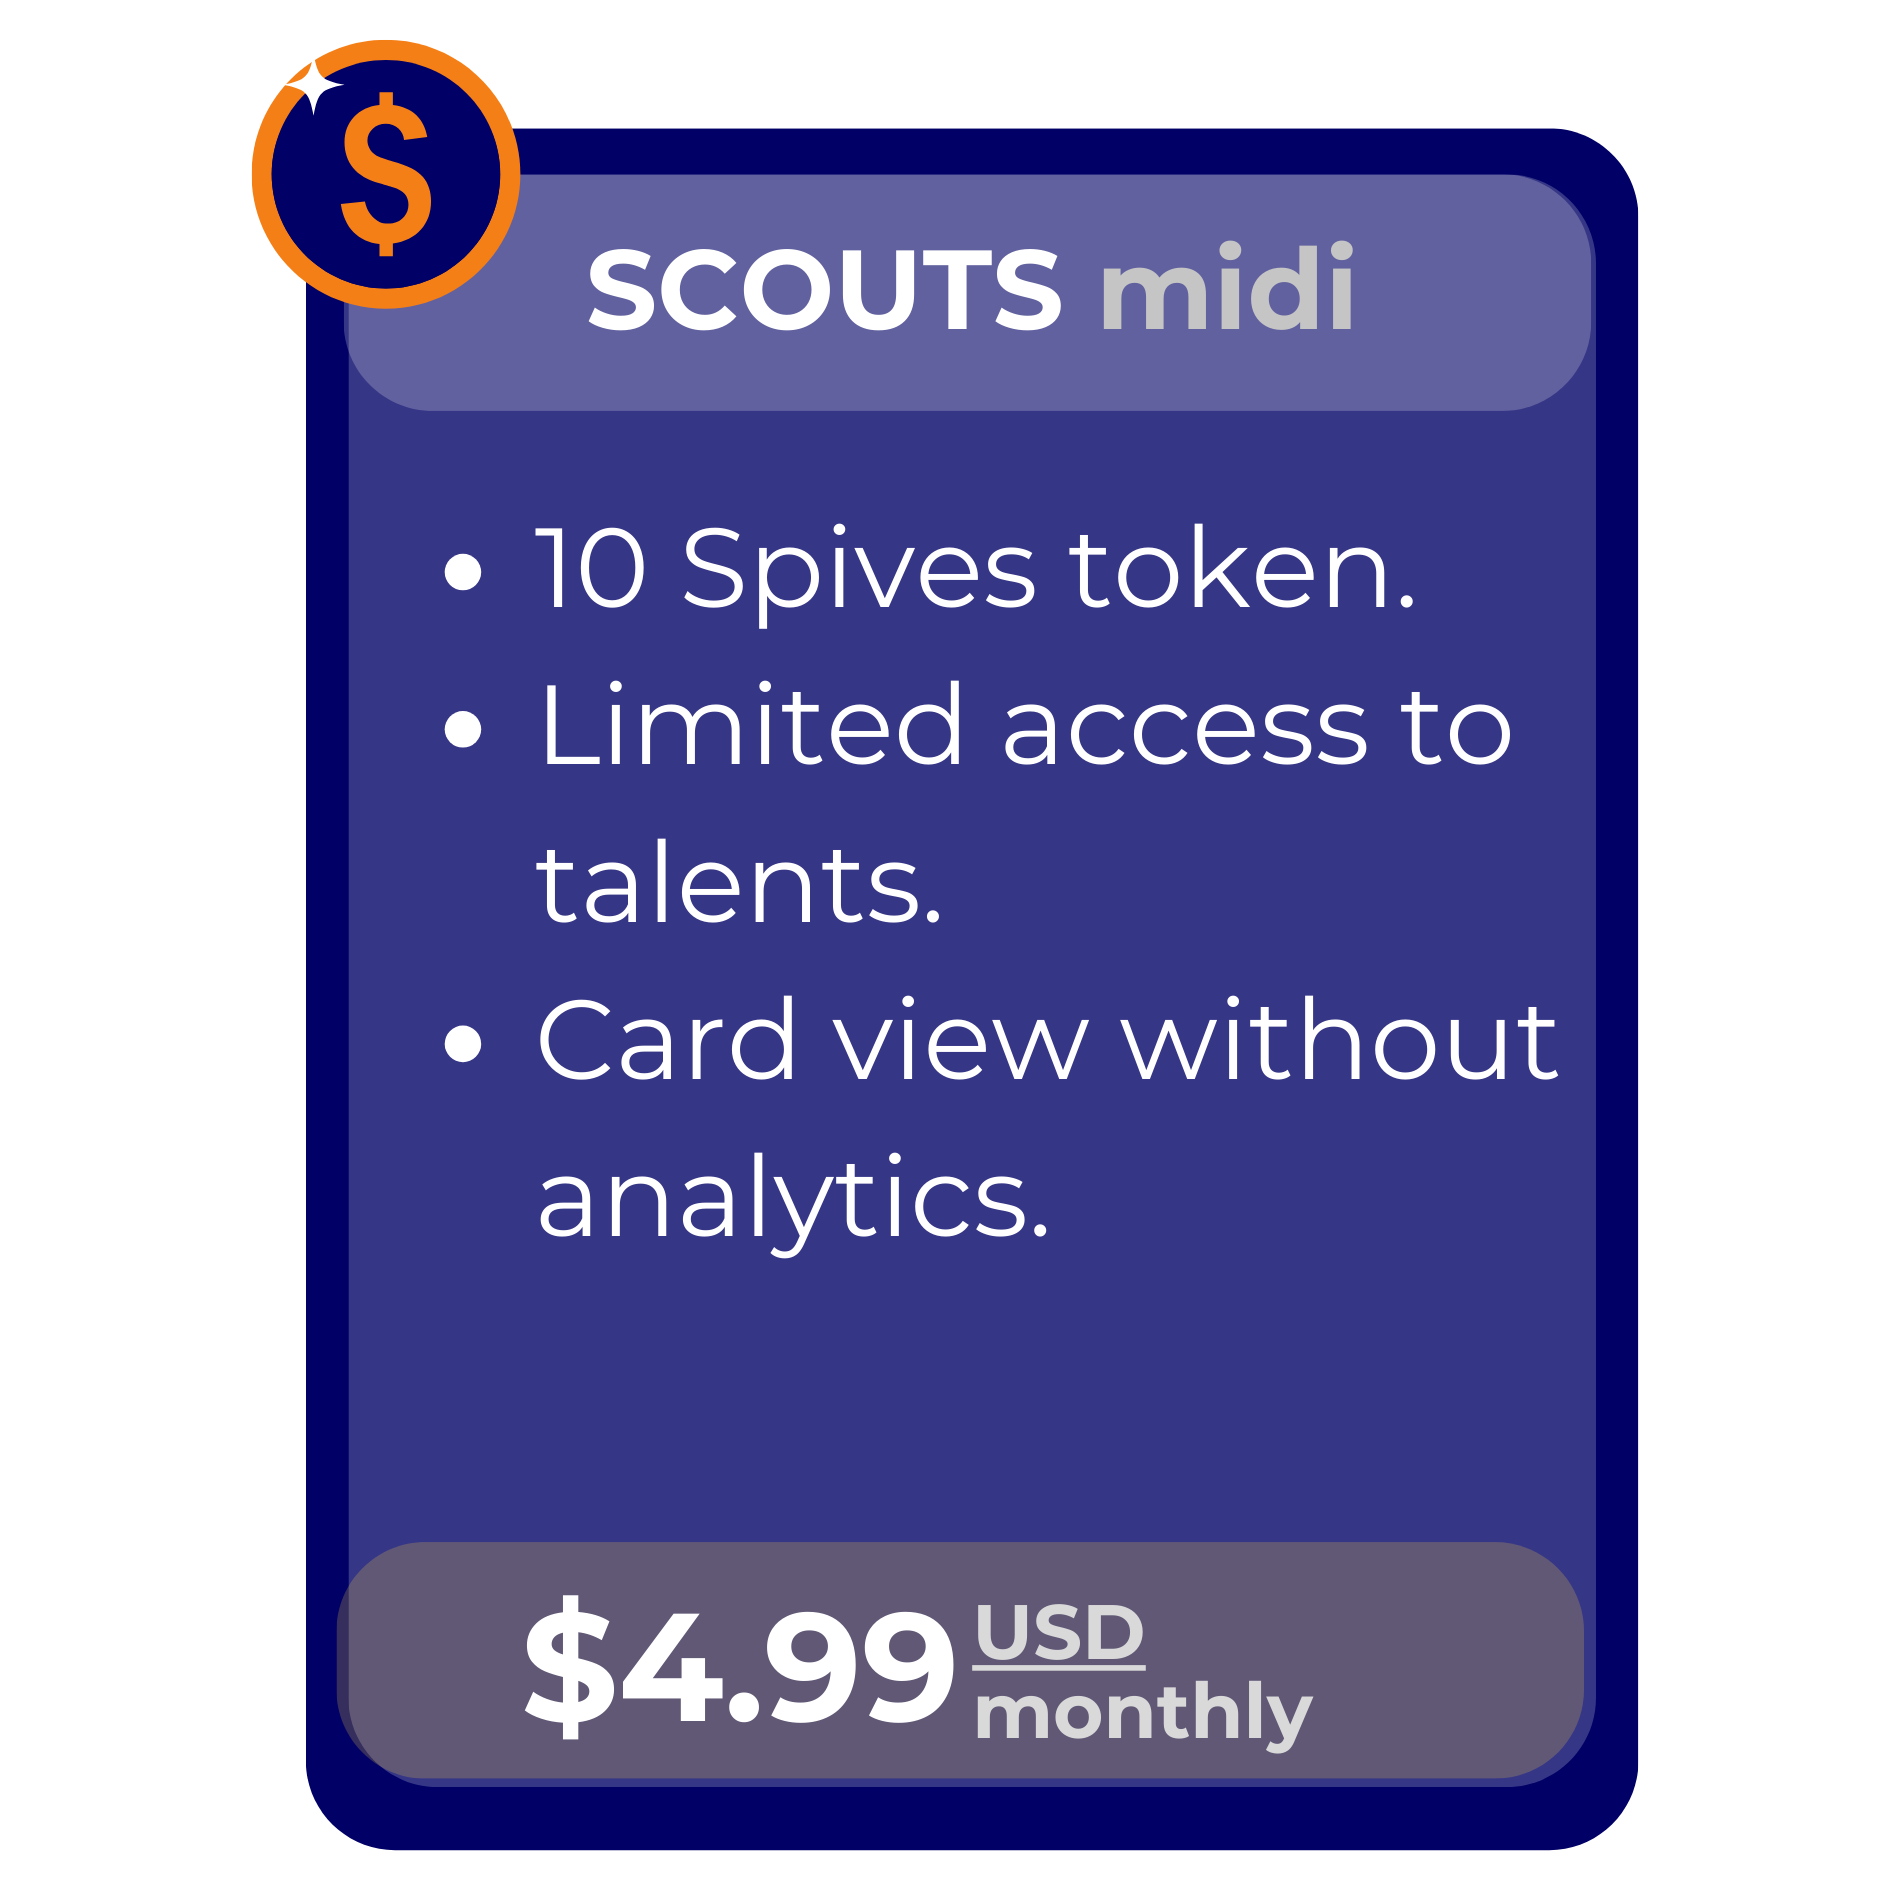
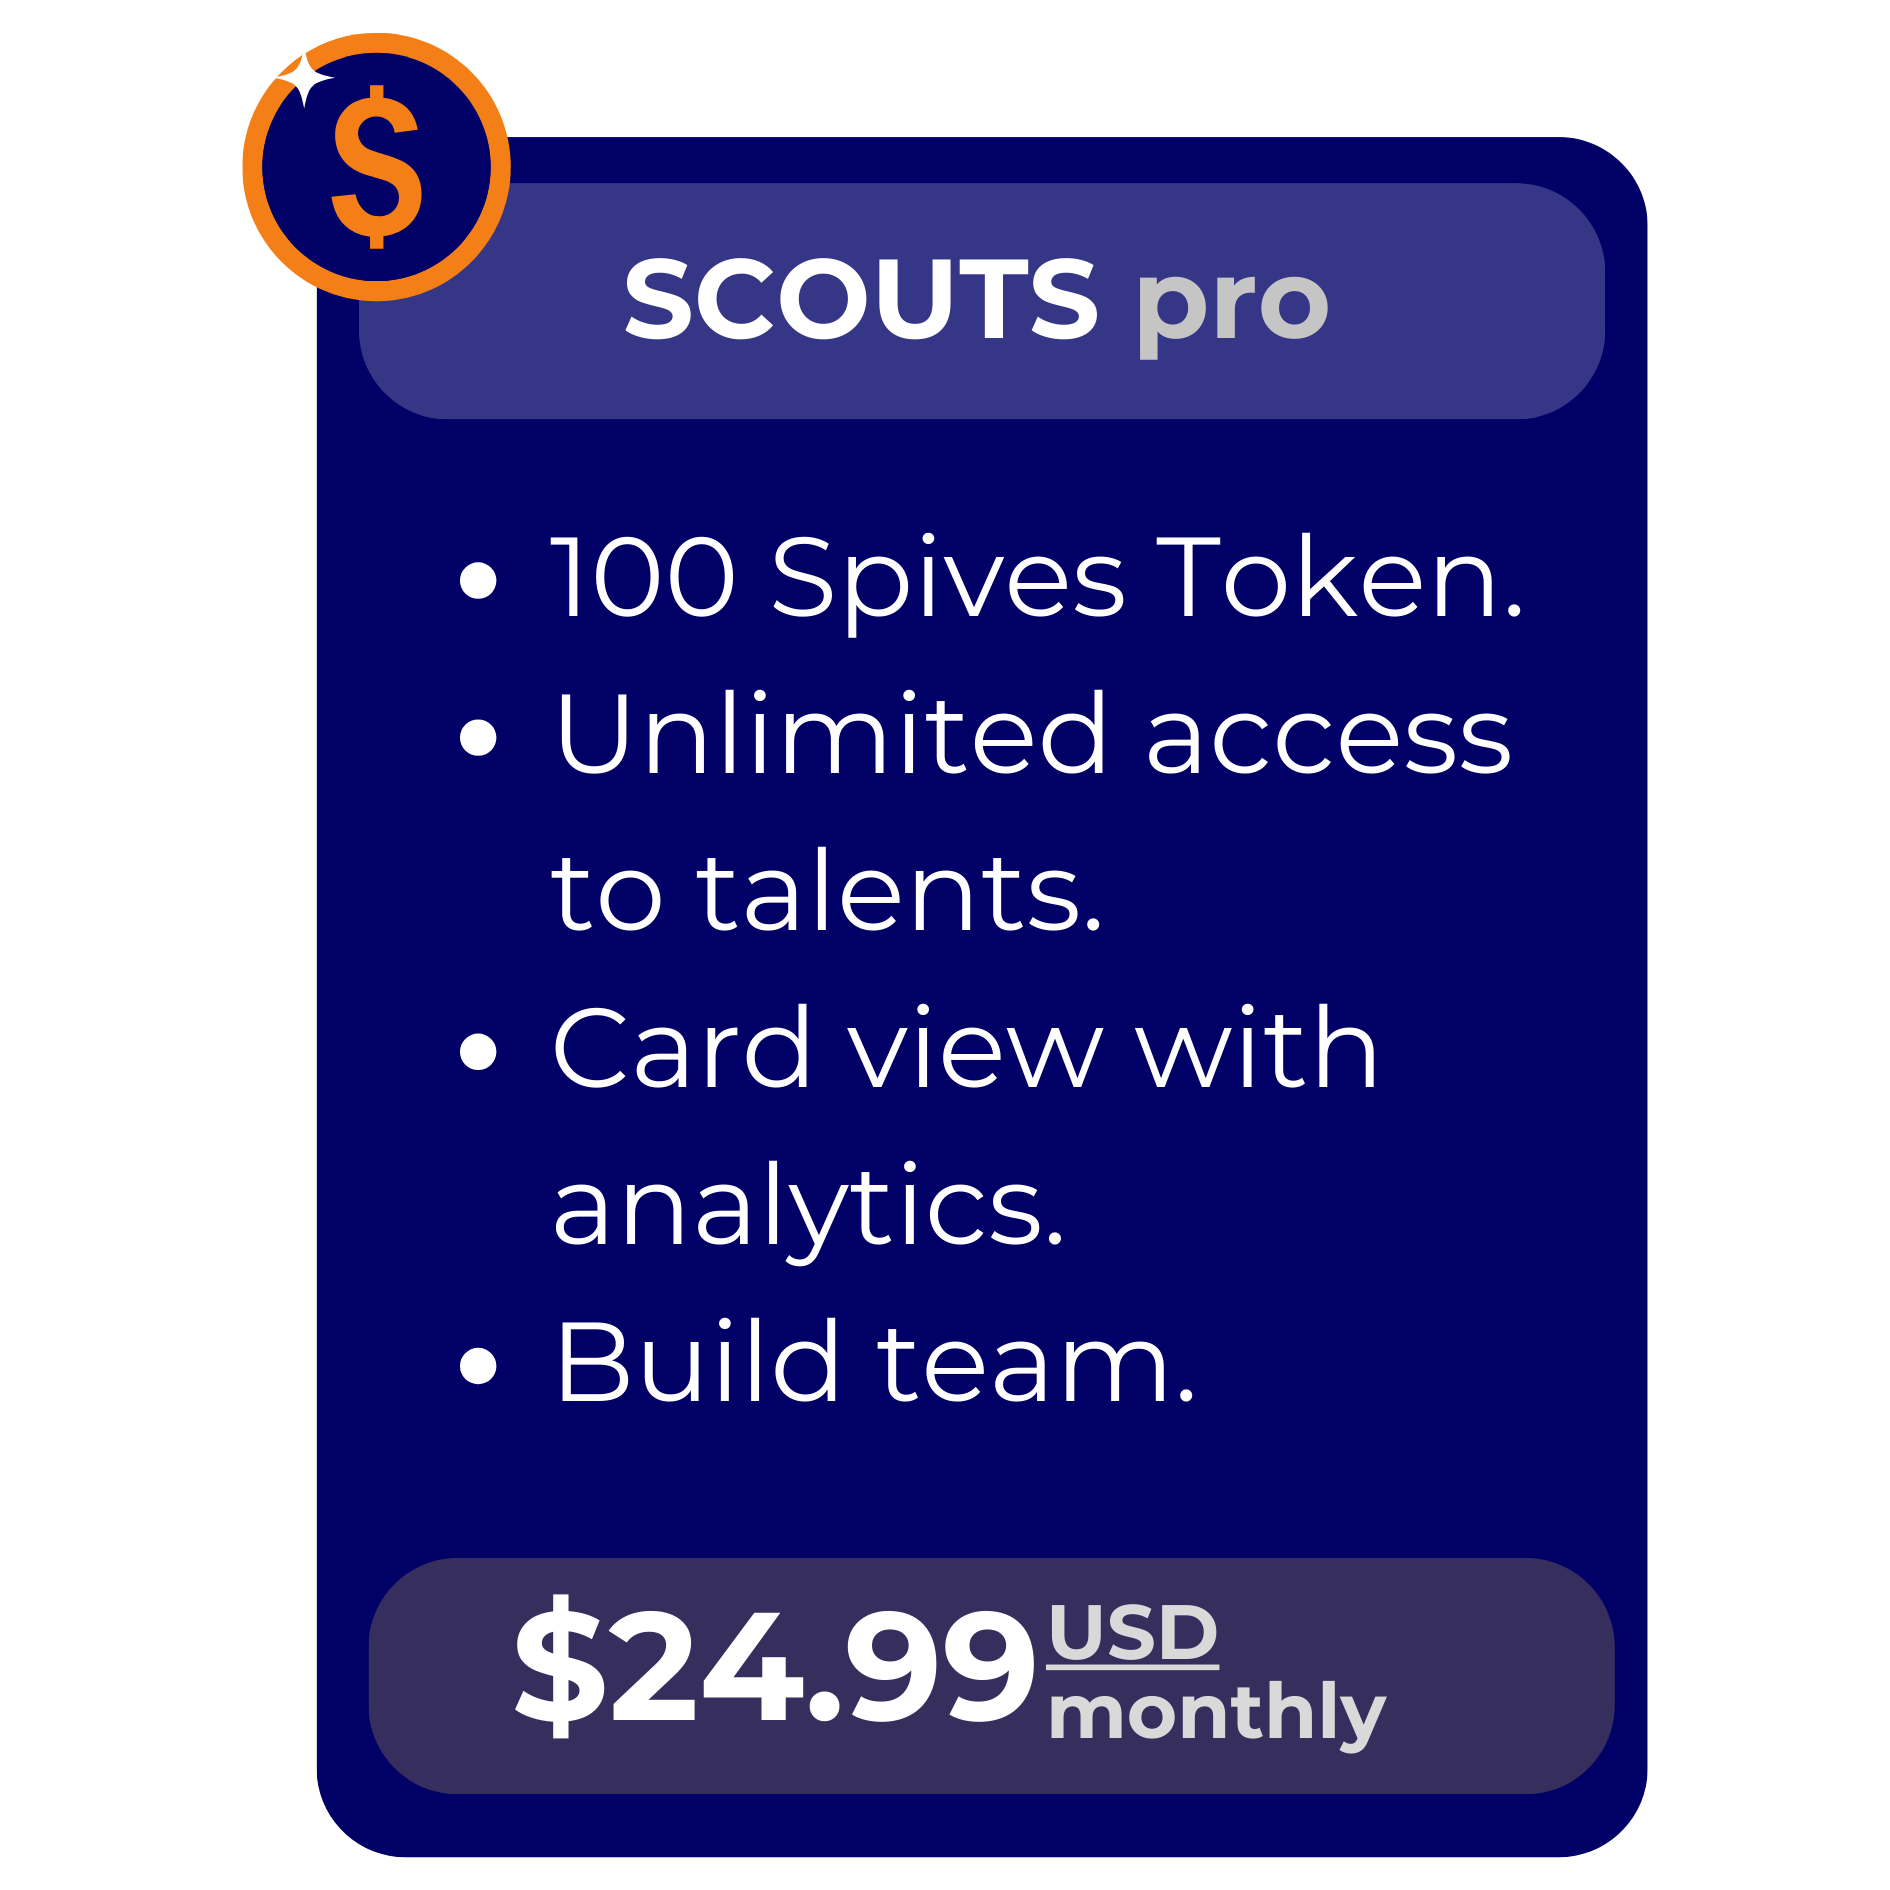
Updated pricing cards

diff --git a/pages/index.vue b/pages/index.vue
@@ -66,8 +66,8 @@
     <!-- Pricing Plans Section -->
     <b-row class="mb-5 pricing">
       <b-img src="images/talentsPricing.png" cols="12" md="6" />
-      <b-img src="images/talentsPricing.png" cols="12" md="6" />
-      <b-img src="images/talentsPricing.png" cols="12" md="6" />
+      <b-img src="images/scoutsPricing.png" cols="12" md="6" />
+      <b-img src="images/scoutsPricing2.png" cols="12" md="6" />
     </b-row>
 
     <!-- Our Team Section -->
